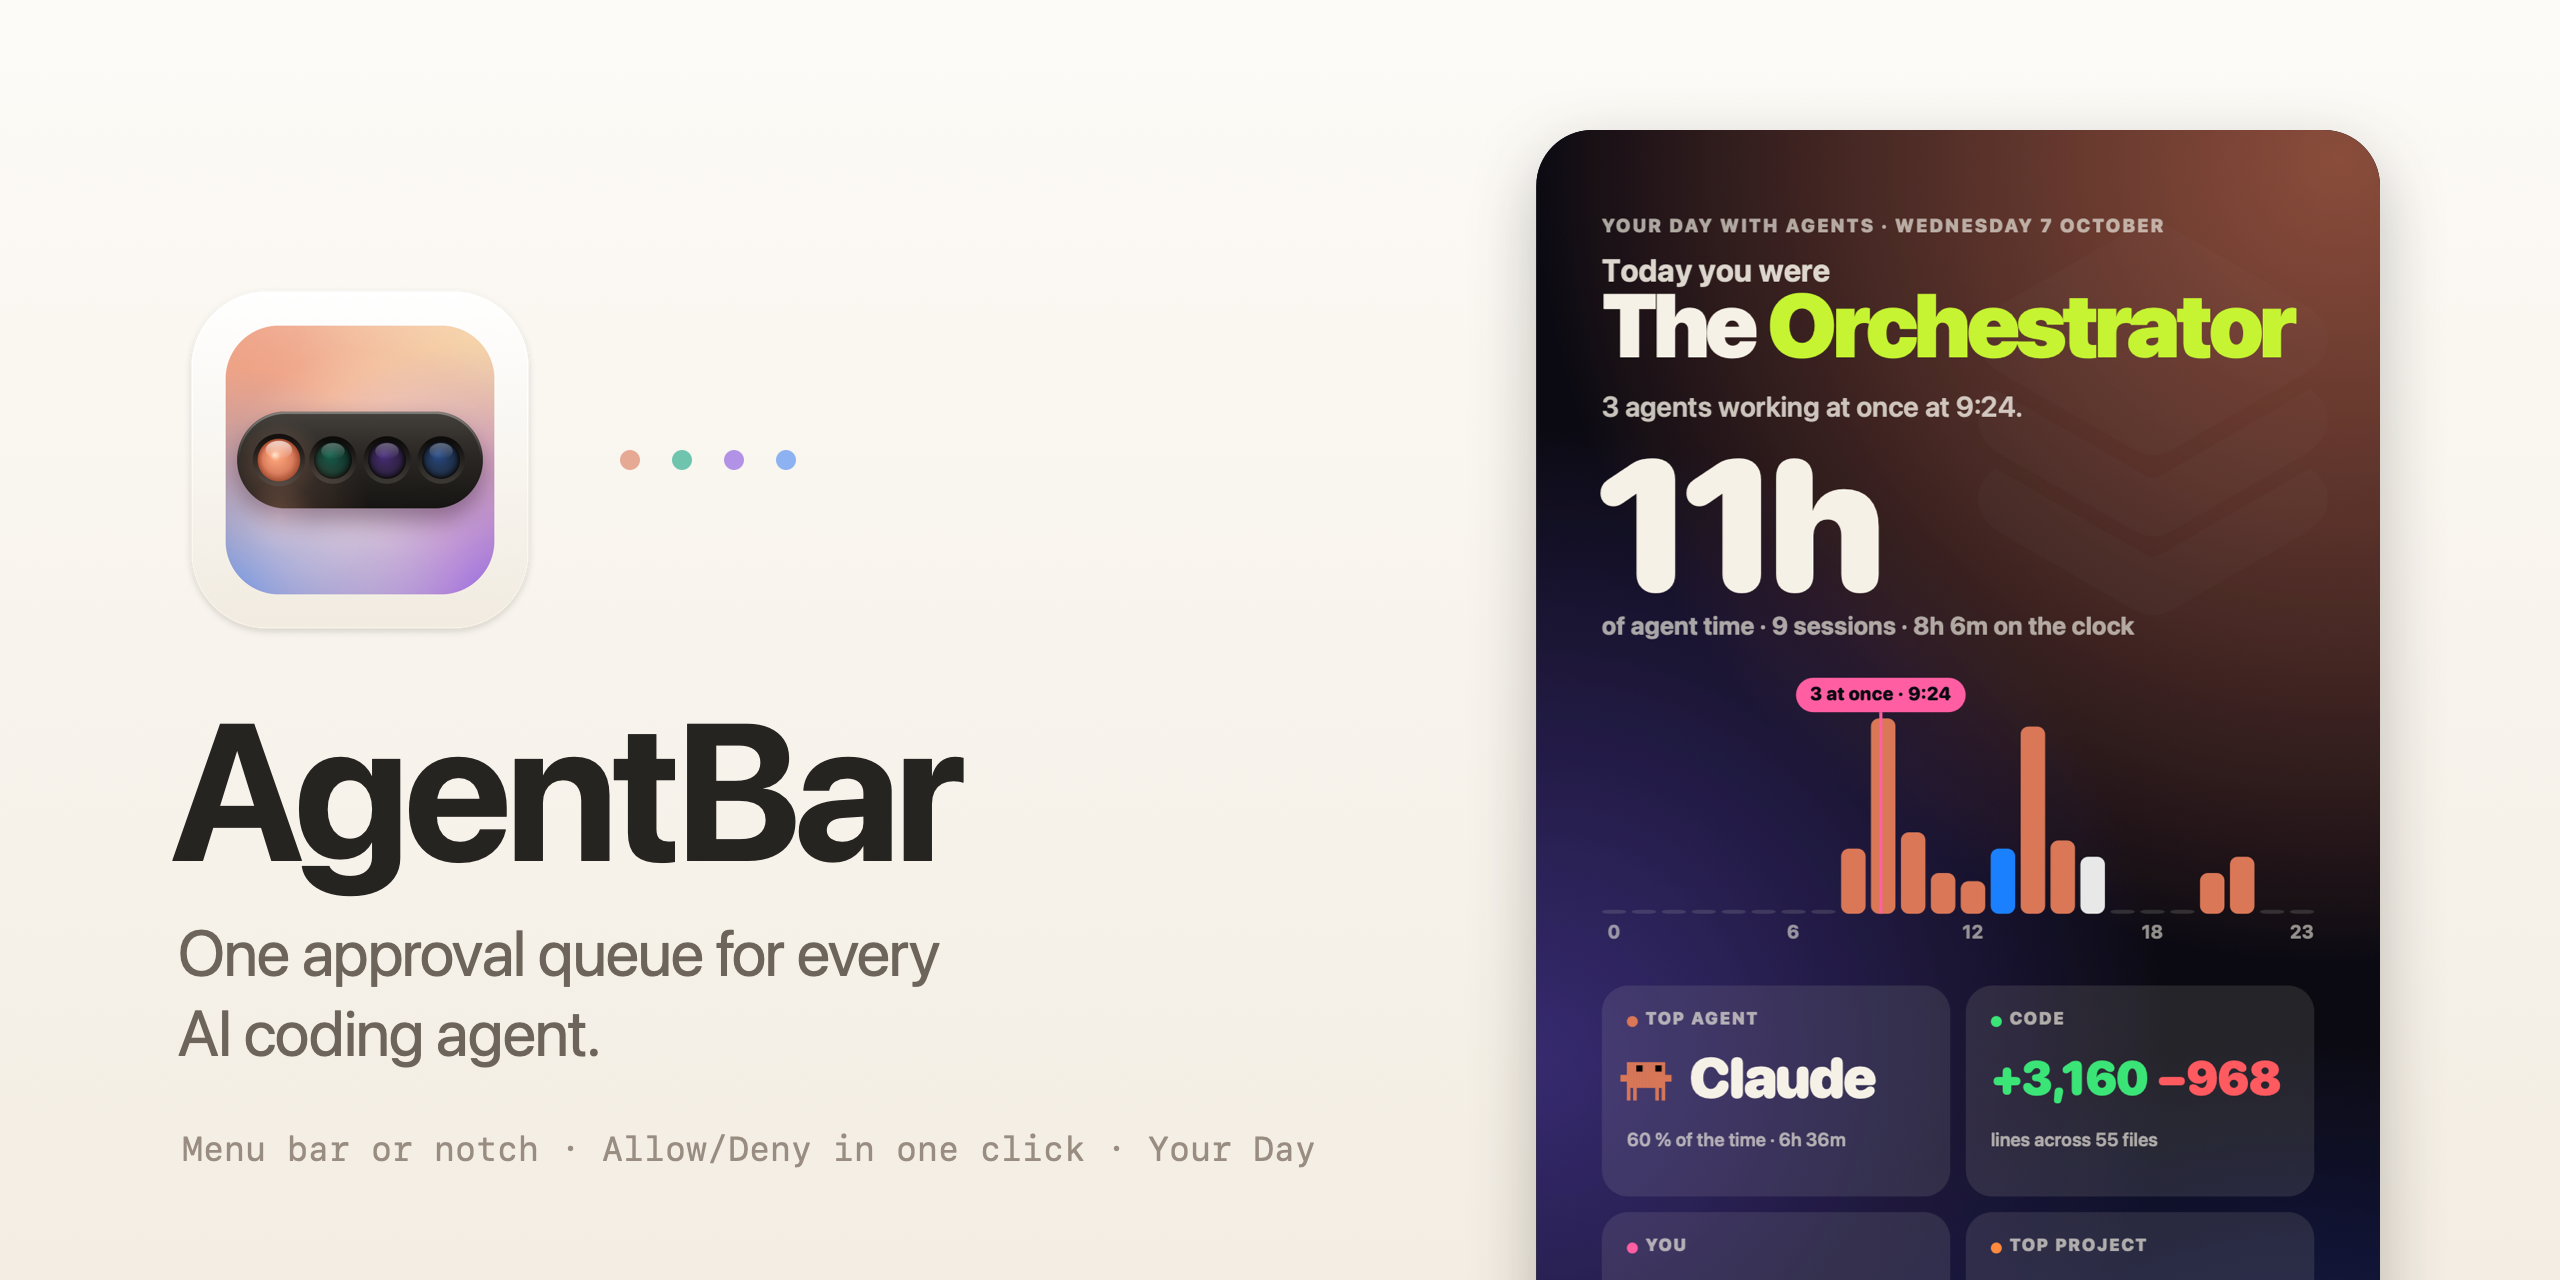
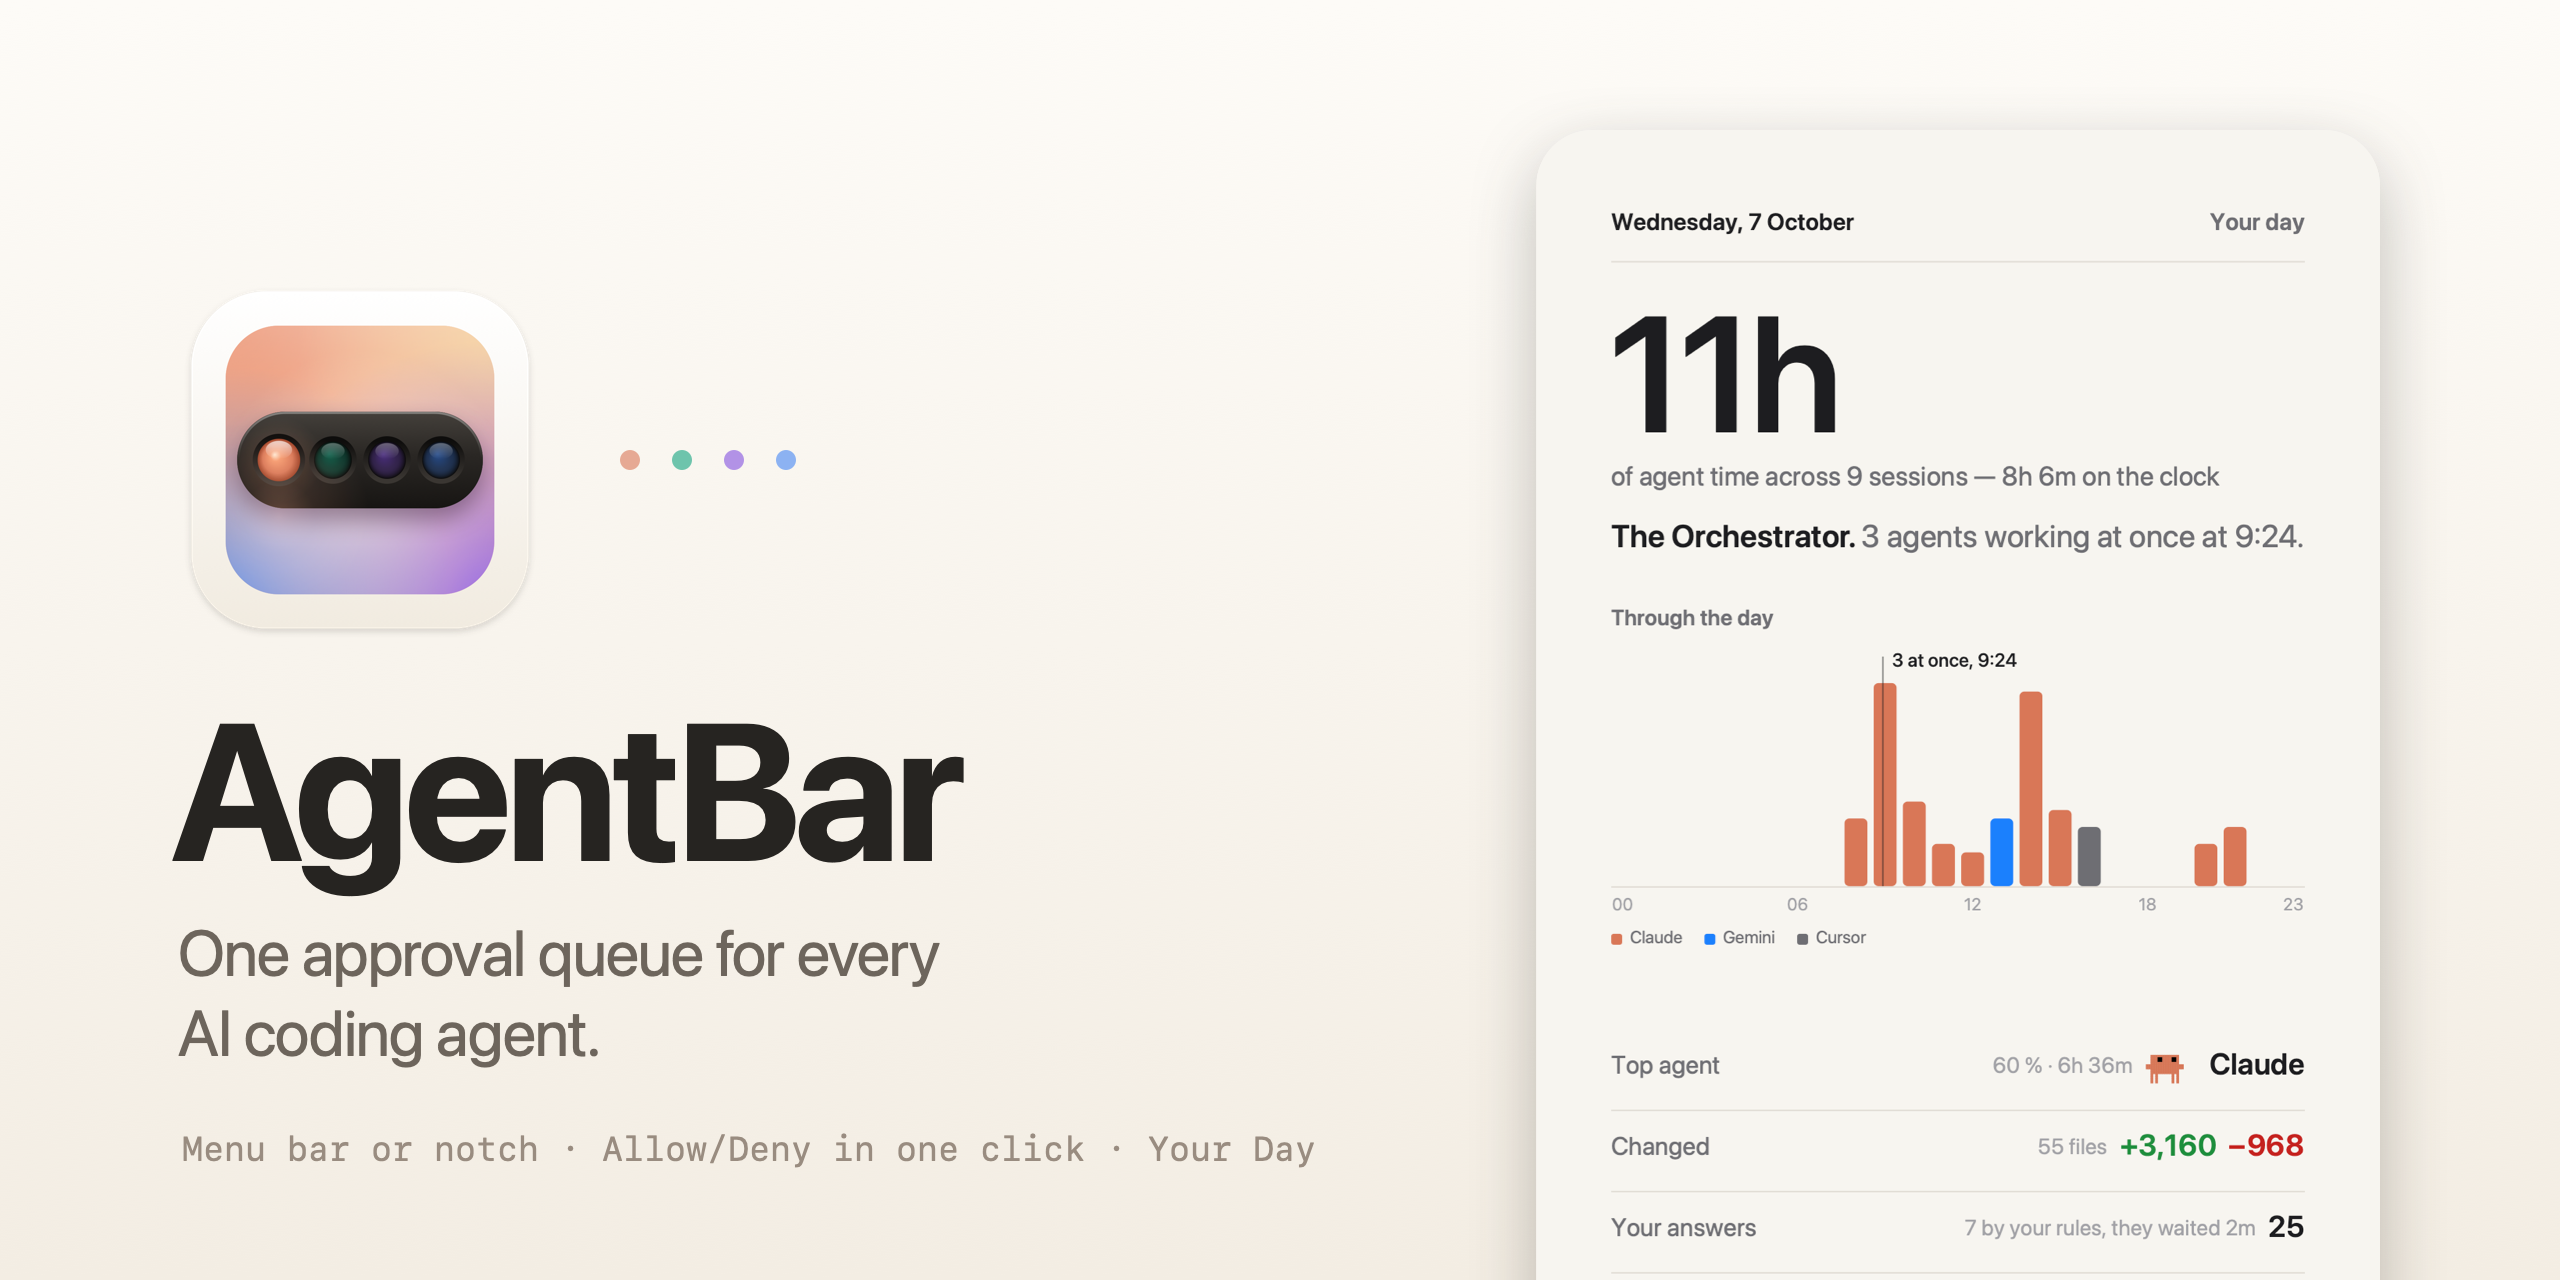
docs: the plain card in the README and the social preview

Changed region(s): [[0.5938, 0.0938, 0.9375, 1.0]]

diff --git a/Scripts/demo/social-preview.swift b/Scripts/demo/social-preview.swift
@@ -51,7 +51,7 @@ if let path = cardPath, let card = NSImage(contentsOfFile: path) {
     shadow.shadowBlurRadius = 70
     shadow.shadowOffset = NSSize(width: 0, height: -24)
     shadow.set()
-    color(0x0B0A12).setFill()
+    color(0xF7F5F0).setFill()
     clip.fill()
     NSGraphicsContext.restoreGraphicsState()
     NSGraphicsContext.saveGraphicsState()

diff --git a/README.md b/README.md
@@ -321,25 +321,27 @@ don't use. To undo a single change, copy the `.agentbar-bak-…` file back over 
 ## Your Day
 
 <p align="center">
-  <img src="docs/assets/your-day.gif?v=2026-10-07b" width="300" alt="AgentBar's Your Day card building itself: 'Today you were The Orchestrator — 3 agents working at once at 9:24', 11h of agent time counting up, the day's hours rising as bars in each agent's colour with the peak marked, then tiles for the top agent, the code changed, your answers and the top project">
+  <img src="docs/assets/your-day.gif?v=2026-10-07c" width="300" alt="AgentBar's Your Day card building itself on plain paper: the date, 11h of agent time counting up, 'The Orchestrator. 3 agents working at once at 9:24.', the day's hours as bars in each agent's colour with the peak marked by a thin line, and a list: top agent Claude, changed +3,160 −968, your answers 25, top project">
   &nbsp;
-  <img src="docs/assets/your-day.png?v=2026-10-07b" width="300" alt="The same card for a week: 34h 24m of agent time, seven days as bars with the best day marked, and the same four tiles">
+  <img src="docs/assets/your-day.png?v=2026-10-07c" width="300" alt="The same card for a week: 34h 24m of agent time, seven days as bars with the best day marked, and the same list">
 </p>
 
 **Your Day…** — in the menu bar's menu and the island's ⋯ — puts your day with
 your agents on one card, the way a year-in-music recap does, built to be read in a
 glance and made to be shared. **This week** switches it to the last seven days.
 
-- **Who you were today** as the headline — The Orchestrator, The Marathoner, The
-  Night Owl, The Delegator, The Quick Draw… — with the number that earned it.
-- **Agent time**, and the day as bars, hour by hour, in the colour of the agent
-  that had each hour, with **your peak** — the most agents at once — marked on
-  them. A week marks its best day instead.
-- **Your top agent** and its share, **what changed in your repos**, **your
-  answers** (how many your rules gave, how long the agents waited on you) and
-  **where the work went**.
+- **Agent time** first, as the one big number, and **who you were today** under it
+  as a sentence — The Orchestrator, The Marathoner, The Night Owl, The Delegator,
+  The Quick Draw… — with the number that earned it.
+- **The day as bars**, hour by hour, in the colour of the agent that had each
+  hour, with **your peak** — the most agents at once — marked by a thin line. A
+  week marks its best day instead.
+- Then a plain list: **your top agent** and its share, **what changed in your
+  repos**, **your answers** (how many your rules gave, how long the agents waited
+  on you) and **where the work went**. Flat paper and ink — the agents' colours
+  appear on their bars and nowhere else.
 - **Honest numbers, as everywhere in AgentBar**: a figure measured on some sessions
-  says so ("in 9 of 21 sessions"), and a fact with nothing behind it gets no tile
+  says so ("9 of 21 sessions"), and a fact with nothing behind it gets no row
   rather than a zero. Lines are *what changed in the repo* while the agents ran,
   not a claim about who wrote them.
 - **Share it**: copy the card (⌘C), save it as a story (1080 × 1920) or square PNG,
